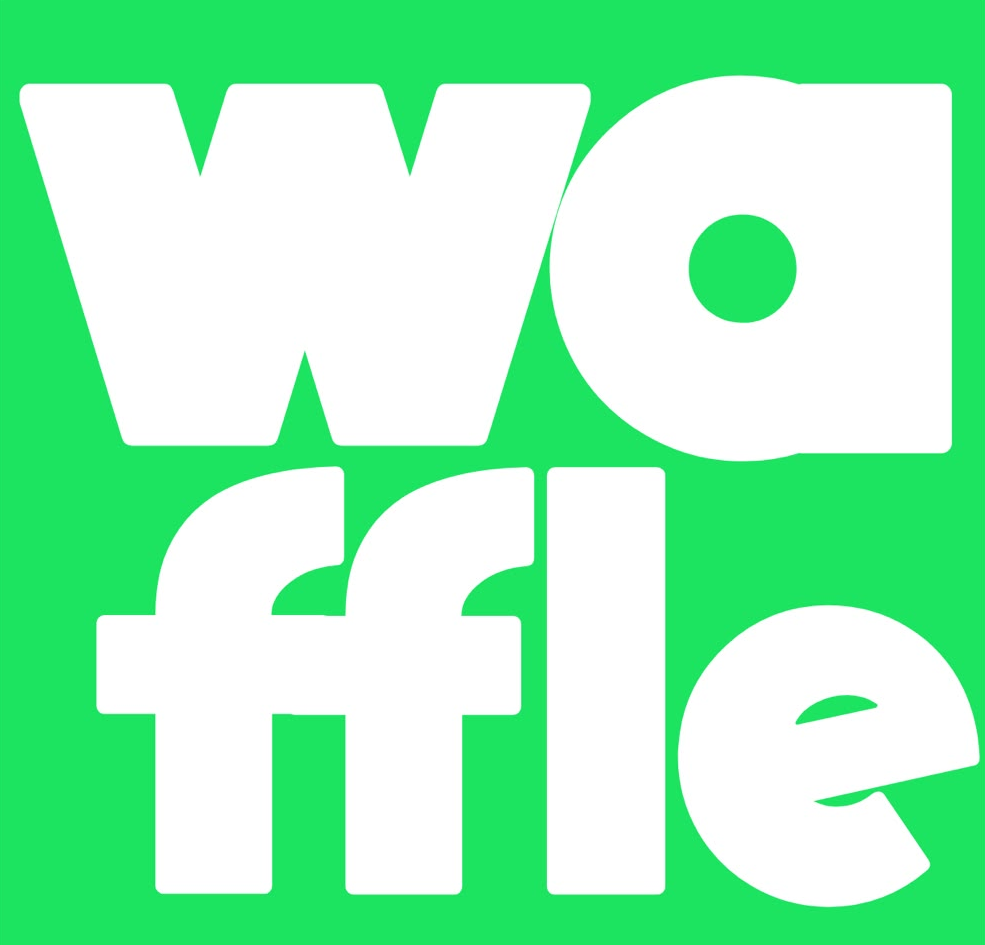
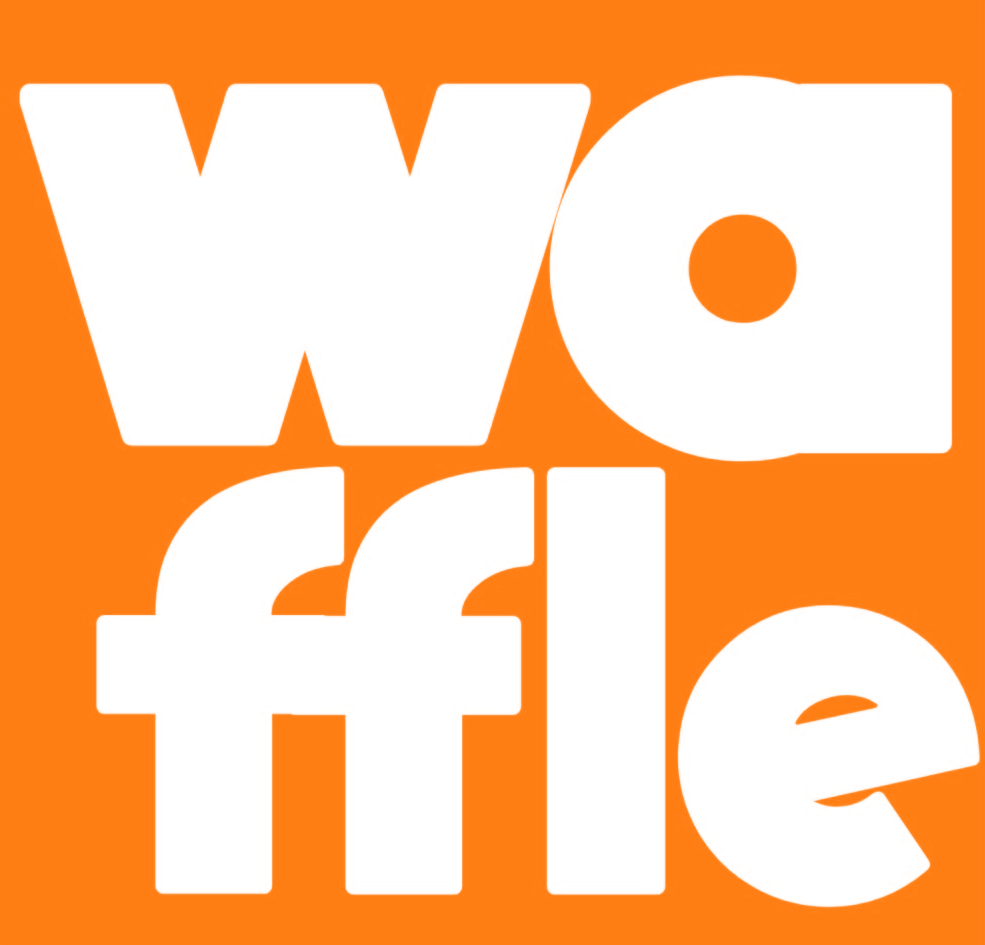
Refresh and reorder weaving patterns
Update rosepath and waffle artwork and colors, align their order across home and saved designs, and remove debug logging.

diff --git a/screens/HomeScreen.tsx b/screens/HomeScreen.tsx
@@ -55,24 +55,6 @@ const TOOLS: Tool[] = [
     bg: '#C7C3F5',
   },
   {
-    key: 'waffle' as const,
-    letter: 'W',
-    icon: require('@/assets/images/waffle.png'),
-    label: 'waffle',
-    description: 'dimensional cells',
-    accent: '#C2410C',
-    bg: '#1CE460',
-  },
-  {
-    key: 'rosepath' as const,
-    letter: 'R',
-    icon: require('@/assets/images/rosepath.png'),
-    label: 'rosepath',
-    description: 'diamond motif',
-    accent: '#BE185D',
-    bg: '#FFA2C4',
-  },
-  {
     key: 'monks-belt' as const,
     letter: 'M',
     icon: require('@/assets/images/monksbelt.png'),
@@ -89,6 +71,24 @@ const TOOLS: Tool[] = [
     description: 'Scandinavian rug weave',
     accent: '#0F434F',
     bg: '#BFF747',
+  },
+  {
+    key: 'rosepath' as const,
+    letter: 'R',
+    icon: require('@/assets/images/rosepath.png'),
+    label: 'rosepath',
+    description: 'diamond motif',
+    accent: '#BE185D',
+    bg: '#FFD4EF',
+  },
+  {
+    key: 'waffle' as const,
+    letter: 'W',
+    icon: require('@/assets/images/waffle.png'),
+    label: 'waffle',
+    description: 'dimensional cells',
+    accent: '#FF7E14',
+    bg: '#FF7E14',
   },
   {
     key: 'saved' as const,

diff --git a/utils/saveDesign.ts b/utils/saveDesign.ts
@@ -81,16 +81,5 @@ export async function saveDesign(
   const updatedList = [newDesign, ...existing];
   await AsyncStorage.setItem(DESIGNS_STORAGE_KEY, JSON.stringify(updatedList));
 
-  console.log('──────────────────────────────────────────');
-  console.log('[saveDesign] Design saved successfully');
-  console.log('  Name       :', newDesign.name);
-  console.log('  ID         :', newDesign.id);
-  console.log('  Pattern    :', newDesign.patternType);
-  console.log('  Saved at   :', new Date(newDesign.savedAt).toLocaleString());
-  console.log('  Snapshot   :', JSON.stringify(newDesign.snapshot, null, 2));
-  console.log('  Total saved (this type):', updatedList.filter(d => d.patternType === patternType).length, '/', DESIGNS_PER_PATTERN_LIMIT);
-  console.log('  Total saved (all types):', updatedList.length);
-  console.log('──────────────────────────────────────────');
-
   return newDesign;
 }

diff --git a/screens/SavedDesignsScreen.tsx b/screens/SavedDesignsScreen.tsx
@@ -37,7 +37,7 @@ import type { PatternType, SavedDesign } from '@/types/saved-design';
 // NOTE: this is a plain array, not a Record<PatternType, …>, so TypeScript
 // will NOT flag a missing pattern here. Omitting one silently hides every
 // design of that type from this screen. Add new patterns here too.
-const PATTERN_ORDER: PatternType[] = ['plain', 'twill', 'diamond', 'waffle', 'rosepath', 'monks-belt', 'krokbragd'];
+const PATTERN_ORDER: PatternType[] = ['plain', 'twill', 'diamond', 'monks-belt', 'krokbragd', 'rosepath', 'waffle'];
 
 // Maps each patternType to its tab route path
 const TAB_PATH: Record<PatternType, string> = {
@@ -55,7 +55,7 @@ const PATTERN_ACCENT: Record<PatternType, string> = {
   plain: '#D97706',
   twill: '#B45309',
   diamond: '#9BA2DD',
-  waffle: '#C2410C', // TODO: replace with the client's brand colour
+  waffle: '#FF7E14',
   rosepath: '#BE185D', // TODO: replace with the client's brand colour
   'monks-belt': '#7C3AED',
   krokbragd: '#0F434F',

diff --git a/components/home/WelcomeBanner.tsx b/components/home/WelcomeBanner.tsx
@@ -7,7 +7,6 @@ import { useColorScheme } from '@/hooks/use-color-scheme';
 export function WelcomeBanner() {
   const scheme = useColorScheme() ?? 'light';
   const brandBlue = Colors[scheme].info;
-  console.log("Brand Blue:", brandBlue);
 
   return (
     <View style={[styles.container, { backgroundColor: brandBlue }]}>
